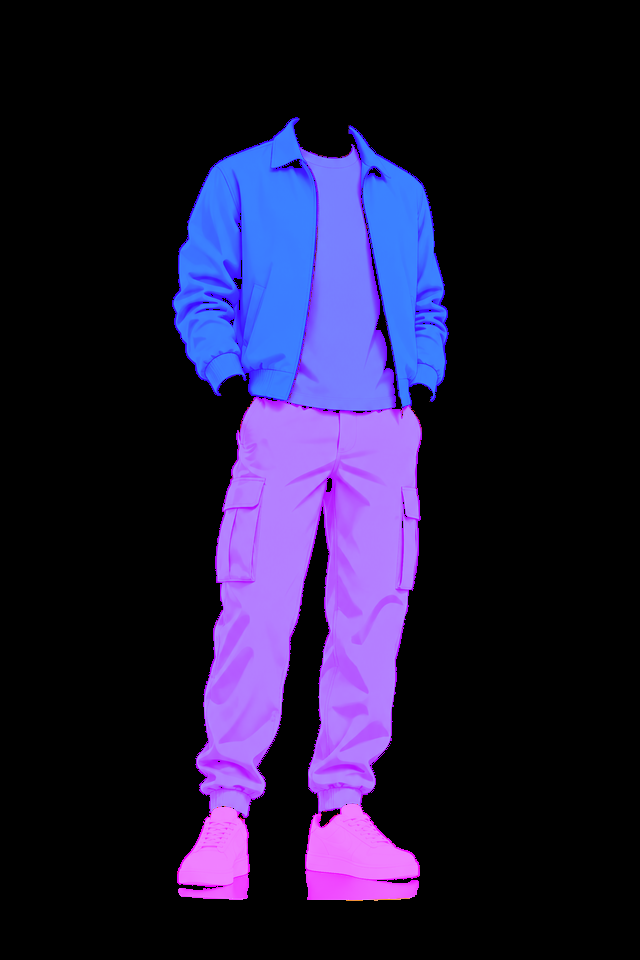
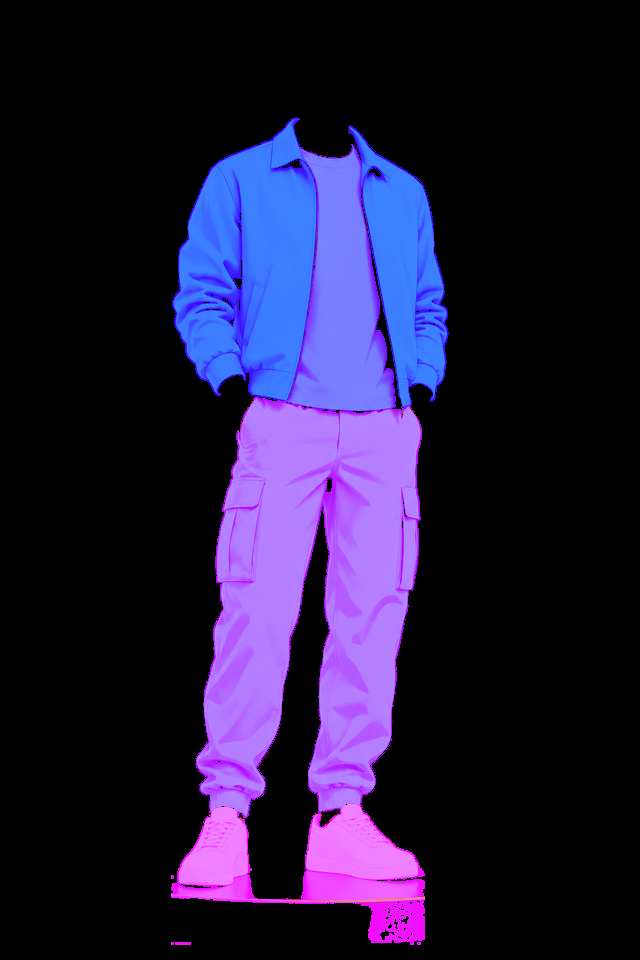
Manichini blazer e felpa scelti in base ai capi proposti
Claude-Session: https://claude.ai/code/session_01FhgcwGLB7PZajHSQhYcqPB

diff --git a/web/js/look.js b/web/js/look.js
@@ -553,7 +553,20 @@ export function lookSvg(pieces, occasion) {
 // (giacca, maglia, pantaloni, scarpe) prende il colore del capo proposto mantenendo pieghe e luci.
 const PW = 640;
 const PH = 960;
-const PHOTO = { default: 'casual' };
+// Manichini disponibili (immagini di Luciano in colori pieni): l'app sceglie quello che somiglia
+// di più ai capi proposti.
+function choosePhoto(pieces, occasion) {
+  const def = DEFAULTS[occasion] || DEFAULTS.tempo_libero;
+  const sub = (cat) => String(pieces.find((p) => p.category === cat)?.subcategory || '').toLowerCase();
+  const outer = sub('outerwear');
+  const top = sub('top') || def.top[0].toLowerCase();
+  const shoes = sub('shoes') || def.shoes[0].toLowerCase();
+  if (/blazer|cappotto|trench/.test(outer) || /completo/.test(sub('dress'))) {
+    return /sneaker|corsa/.test(shoes) ? 'blazer-sneakers' : 'blazer';
+  }
+  if (!outer && /felpa|maglione|cardigan|maglia sportiva/.test(top)) return 'felpa';
+  return 'casual'; // giubbotto aperto su maglietta
+}
 const photos = {};
 function loadPhoto(name) {
   if (!photos[name]) {
@@ -623,7 +636,7 @@ export function lookView(pieces, occasion) {
   canvas.setAttribute('role', 'img');
   canvas.setAttribute('aria-label', 'Anteprima dell\'outfit sul manichino');
   box.append(canvas);
-  loadPhoto(PHOTO[occasion] || PHOTO.default)
+  loadPhoto(choosePhoto(pieces, occasion))
     .then((px) => paintPhoto(canvas, px, photoColors(pieces, occasion)))
     .catch(() => box.replaceChildren(lookSvg(pieces, occasion)));
   return box;

diff --git a/web/sw.js b/web/sw.js
@@ -1,5 +1,5 @@
 // Rende l'app installabile e utilizzabile anche offline (le chiamate AI e meteo richiedono la rete).
-const CACHE = 'dress-v19';
+const CACHE = 'dress-v20';
 const SHELL = [
   './',
   './index.html',
@@ -14,6 +14,12 @@ const SHELL = [
   './js/look.js',
   './img/manichino/casual.jpg',
   './img/manichino/casual-zone.png',
+  './img/manichino/blazer.jpg',
+  './img/manichino/blazer-zone.png',
+  './img/manichino/blazer-sneakers.jpg',
+  './img/manichino/blazer-sneakers-zone.png',
+  './img/manichino/felpa.jpg',
+  './img/manichino/felpa-zone.png',
   './icons/favicon-v3.png',
   './icons/icon-192-v3.png',
   './icons/icon-512-v3.png',

diff --git a/web/js/app.js b/web/js/app.js
@@ -7,7 +7,7 @@ import {
   CATEGORIES, SEASONS, STYLES, PATTERNS, MOODS, OCCASIONS, FORMALITY, SUBTYPES, PALETTE, describeItem,
 } from './catalog.js';
 
-const APP_VERSION = '19'; // da aumentare a ogni modifica, si vede nelle Impostazioni
+const APP_VERSION = '20'; // da aumentare a ogni modifica, si vede nelle Impostazioni
 const view = document.getElementById('view');
 const titleEl = document.getElementById('view-title');
 

diff --git a/tools/manichino/prepara.py b/tools/manichino/prepara.py
@@ -52,7 +52,15 @@ def keep_big(mask, min_px):
 
 for z in (1, 2, 3, 4):
     m = zone == z
-    zone[m & ~keep_big(m, 400)] = 0
+    zone[m & ~keep_big(m, 300 if z == 4 else 60)] = 0
+
+# Riflesso delle scarpe sul piedistallo: giallo meno saturo appena sotto le scarpe.
+ys, xs = np.nonzero(zone == 4)
+if len(ys):
+    near = np.zeros((H, W), bool)
+    near[ys.max() - 30:min(H, ys.max() + 45), max(0, xs.min() - 6):xs.max() + 6] = True
+    refl = near & (zone == 0) & (s > 0.3) & (v > 0.08) & (h >= 30) & (h < 75)
+    zone[refl] = 4
 
 # Luce: luminosità rispetto al colore pieno della zona.
 shade = np.zeros((H, W), np.float32)

diff --git a/README.md b/README.md
@@ -13,7 +13,7 @@ Il mio armadio digitale: fotografo i capi e ogni giorno l'app mi propone cosa in
 
 ## Come funzionano i consigli
 
-Ogni proposta mostra un manichino fotografico (creato con ChatGPT in colori pieni: giacca rossa, maglia verde, pantaloni blu, scarpe gialle) che l'app ricolora all'istante con i colori dei capi proposti, mantenendo pieghe e luci. Per aggiungerne uno: `python3 tools/manichino/prepara.py <immagine> web/img/manichino/<nome>` e collegarlo all'occasione in `PHOTO` dentro `web/js/look.js`. Se l'immagine non si carica resta il manichino disegnato in SVG.
+Ogni proposta mostra un manichino fotografico (creato con ChatGPT in colori pieni: giacca rossa, maglia verde, pantaloni blu, scarpe gialle) che l'app ricolora all'istante con i colori dei capi proposti, mantenendo pieghe e luci. Per aggiungerne uno: `python3 tools/manichino/prepara.py <immagine> web/img/manichino/<nome>` e farlo scegliere in `choosePhoto` dentro `web/js/look.js`. Se l'immagine non si carica resta il manichino disegnato in SVG.
 
 Lo stylist è in `web/js/stylist.js` e usa regole di stile, senza servizi esterni:
 
